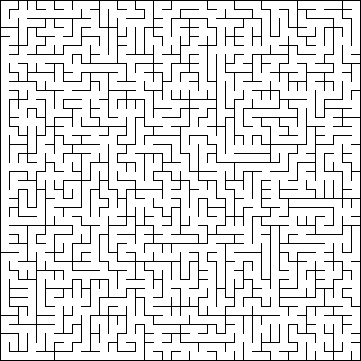
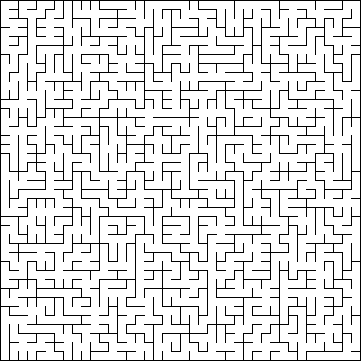
When printing console, program no longer save any image

diff --git a/src/lib.rs b/src/lib.rs
@@ -1,5 +1,6 @@
 use clap::Parser;
 use maze_image_builder::ConfigArray;
+use std::process::exit;
 
 mod maze;
 mod maze_image_builder;
@@ -34,6 +35,7 @@ pub fn main_run() {
     }
     if config.console_print {
         maze.print_to_console();
+        exit(0);
     }
 
     let config_array = ConfigArray {
